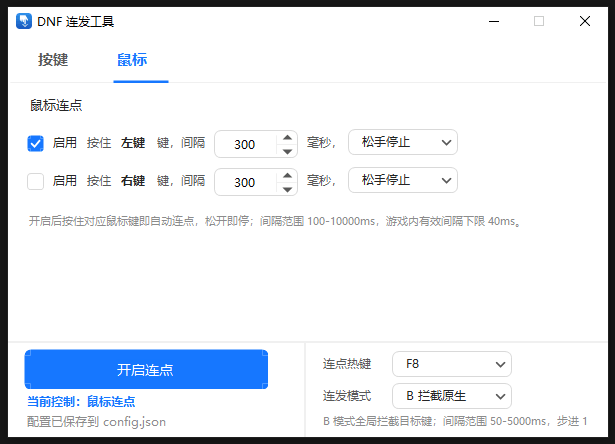
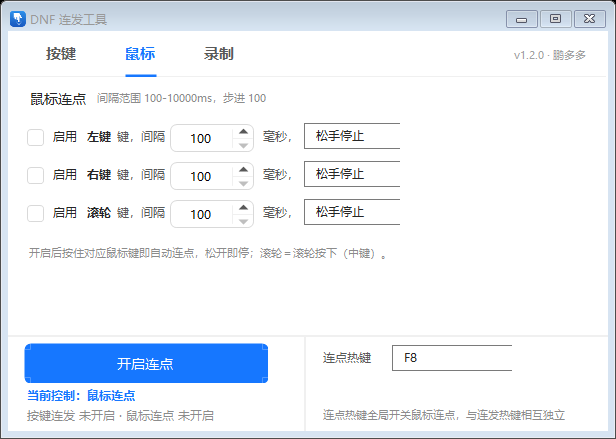
feat: 配置加版本字段 + 按键步进 50 + 鼠标页标题统一
- AppConfig 新增 ConfigVersion（写入时的程序版本）：缺失或低于当前版本时整份重置为
  默认并立即覆写；同时清掉已废弃的 PlayGapMs。字段故意不给初始值——STJ 反序列化
  缺失属性会保留初始值，给了就永远判不出「没有这个字段」
- 按键间隔步进 10 → 50（KeyStepMs 常量），标题旁文案跟着改为「步进 50」
- 抽出 AddPageTitle：按键页 / 鼠标页共用 10.5pt 标题 + 8pt 灰字范围说明；
  鼠标页补「间隔范围 100-10000ms，步进 100」，页底提示删掉间隔范围与「游戏内有效下限 40ms」
- README / CHANGELOG / PLAN §14 同步；重拍 screenShot_1/2

diff --git a/MainForm.cs b/MainForm.cs
@@ -9,6 +9,8 @@ public class MainForm : Form
     private const int HOTKEY_ID_PLAY = 4;   // 回放热键
     private const int MinMs = 50;
     private const int MaxMs = 5000;
+    private const int KeyStepMs = 50;        // 按键间隔的步进值（上下按钮/↑↓每次走 50ms）
+    private const int MouseStepMs = 100;     // 鼠标连点间隔步进
     private const int MouseMinMs = 100;      // 鼠标连点间隔下限
     private const int MouseMaxMs = 10000;    // 鼠标连点间隔上限（10 秒）
     private const int MouseDefaultMs = 300;  // 鼠标连点间隔默认值
@@ -1332,28 +1334,7 @@ public class MainForm : Form
 
     private void BuildKeysPage(Control page)
     {
-        var lblTitle = new Label
-        {
-            Text = "按键配置",
-            Location = new Point(16, 11),
-            AutoSize = true,
-            ForeColor = AntStyle.TextPri,
-            Font = new Font(AntStyle.FontName, 10.5f)
-        };
-        page.Controls.Add(lblTitle);
-
-        // 间隔范围说明跟着标题走（原来挤在右下角模式提示里）
-        var titleSize = RowTextSize("按键配置", 10.5f);
-        var rangeSize = RowTextSize($"间隔范围 {MinMs}-{MaxMs}ms，步进 1", 8f);
-        var lblRange = new Label
-        {
-            Text = $"间隔范围 {MinMs}-{MaxMs}ms，步进 1",
-            Location = new Point(16 + titleSize.Width + 12, 11 + (titleSize.Height - rangeSize.Height) / 2),
-            AutoSize = true,
-            ForeColor = AntStyle.TextTertiary,
-            Font = new Font(AntStyle.FontName, 8f)
-        };
-        page.Controls.Add(lblRange);
+        AddPageTitle(page, "按键配置", $"间隔范围 {MinMs}-{MaxMs}ms，步进 {KeyStepMs}");
 
         pnlRows = new Panel
         {
@@ -1391,15 +1372,7 @@ public class MainForm : Form
     /// <summary>鼠标连点页：固定左/右/滚轮三行 + 停止条件下拉（松手停止 / 自动点击，默认松手停止）。</summary>
     private void BuildMousePage(Control page)
     {
-        var lblTitle = new Label
-        {
-            Text = "鼠标连点",
-            Location = new Point(16, 12),
-            AutoSize = true,
-            ForeColor = AntStyle.TextPri,
-            Font = new Font(AntStyle.FontName, 9.5f)
-        };
-        page.Controls.Add(lblTitle);
+        AddPageTitle(page, "鼠标连点", $"间隔范围 {MouseMinMs}-{MouseMaxMs}ms，步进 {MouseStepMs}");
 
         foreach (var (button, label, y) in new[] { ("L", "左键", 44), ("R", "右键", 82), ("M", "滚轮", 120) })
         {
@@ -1423,7 +1396,7 @@ public class MainForm : Form
             {
                 Location = new Point(x, 3),
                 Size = new Size(84, 28),
-                Step = 100,
+                Step = MouseStepMs,
                 Min = MouseMinMs,
                 Max = MouseMaxMs
             };
@@ -1488,7 +1461,7 @@ public class MainForm : Form
 
         var lblHint = new Label
         {
-            Text = "开启后按住对应鼠标键即自动连点，松开即停；滚轮＝滚轮按下（中键）。间隔 100-10000ms，游戏内有效下限 40ms。",
+            Text = "开启后按住对应鼠标键即自动连点，松开即停；滚轮＝滚轮按下（中键）。",
             Location = new Point(16, 168),
             AutoSize = true,
             MaximumSize = new Size(RowWidth + 12, 0), // 超宽自动换行，不越过窗口右边缘
@@ -2298,7 +2271,7 @@ public class MainForm : Form
         {
             Location = new Point(184, 3),
             Size = new Size(84, 28),
-            Step = 10,
+            Step = KeyStepMs,
             Min = MinMs,
             Max = MaxMs
         };
@@ -2589,6 +2562,29 @@ public class MainForm : Form
             UpdateStatus("间隔已修正为 " + fixedMs + " 毫秒");
         }
         if (!_loading) SaveConfig(); // 手动输入的毫秒值离开输入框时落盘
+    }
+
+    /// <summary>页面标题 + 右侧间隔范围说明（按键页与鼠标页共用同一套字号与对齐）。</summary>
+    private static void AddPageTitle(Control page, string title, string range)
+    {
+        var titleSize = RowTextSize(title, 10.5f);
+        var rangeSize = RowTextSize(range, 8f);
+        page.Controls.Add(new Label
+        {
+            Text = title,
+            Location = new Point(16, 11),
+            AutoSize = true,
+            ForeColor = AntStyle.TextPri,
+            Font = new Font(AntStyle.FontName, 10.5f)
+        });
+        page.Controls.Add(new Label
+        {
+            Text = range,
+            Location = new Point(16 + titleSize.Width + 12, 11 + (titleSize.Height - rangeSize.Height) / 2),
+            AutoSize = true,
+            ForeColor = AntStyle.TextTertiary,
+            Font = new Font(AntStyle.FontName, 8f)
+        });
     }
 
     /// <summary>行内静态文字：保持 AutoSize（不裁切），用 MeasureText 把文字垂直中心对齐到 28px 控件带中线。</summary>

diff --git a/AppConfig.cs b/AppConfig.cs
@@ -25,6 +25,12 @@ public class MouseClickConfig
 
 public class AppConfig
 {
+    /// <summary>
+    /// 配置结构版本＝写入时的程序版本。缺字段或低于当前版本 → 整份重置为默认（见 ConfigManager.Load）。
+    /// 不设初始值：STJ 反序列化时缺失的属性保留字段默认值，若给默认值就永远判不出"没有这个字段"。
+    /// </summary>
+    public string? ConfigVersion { get; set; }
+
     public List<KeyConfig> Keys { get; set; } = new();
     public List<MouseClickConfig> MouseClicks { get; set; } = new();
     public string StartHotkey { get; set; } = "F6";      // 按键连发热键
@@ -56,6 +62,10 @@ public static class ConfigManager
 {
     private static string ConfigPath => Path.Combine(AppPaths.DataDir, "config.json");
 
+    /// <summary>程序版本（形如 1.2.0），取自程序集版本，与 Tab 栏显示的版本号同源。</summary>
+    public static string AppVersion =>
+        typeof(AppConfig).Assembly.GetName().Version?.ToString(3) ?? "0.0.0";
+
     private static readonly JsonSerializerOptions JsonOptions = new()
     {
         WriteIndented = true,
@@ -66,11 +76,21 @@ public static class ConfigManager
     {
         try
         {
-            if (File.Exists(ConfigPath))
+            if (!File.Exists(ConfigPath)) return AppConfig.Default();
+
+            var cfg = JsonSerializer.Deserialize<AppConfig>(File.ReadAllText(ConfigPath), JsonOptions);
+            if (cfg == null) return AppConfig.Default();
+
+            // 老配置没有版本字段，或版本低于当前程序 → 整份重置并立刻覆写：
+            // 结构变了以后逐字段兼容太容易漏，干脆从头来（配置项就这些，重填成本低）
+            if (!VersionMatches(cfg.ConfigVersion))
             {
-                var cfg = JsonSerializer.Deserialize<AppConfig>(File.ReadAllText(ConfigPath), JsonOptions);
-                if (cfg != null) return cfg;
+                Logger.Info($"配置版本 {Describe(cfg.ConfigVersion)} 与当前 {AppVersion} 不符，已整体重置为默认配置");
+                var def = AppConfig.Default();
+                Save(def);
+                return def;
             }
+            return cfg;
         }
         catch (Exception ex)
         {
@@ -82,6 +102,14 @@ public static class ConfigManager
 
     public static void Save(AppConfig cfg)
     {
+        cfg.ConfigVersion = AppVersion; // 每次写盘都盖上当前版本，下次启动即按此判断
         File.WriteAllText(ConfigPath, JsonSerializer.Serialize(cfg, JsonOptions));
     }
+
+    /// <summary>版本字段必须存在，且不低于当前程序版本（缺字段 / 低于 = 需要重置）。</summary>
+    private static bool VersionMatches(string? version) =>
+        Version.TryParse(version, out var v) && v >= (Version.TryParse(AppVersion, out var app) ? app : new Version(0, 0, 0));
+
+    private static string Describe(string? version) =>
+        string.IsNullOrWhiteSpace(version) ? "(无配置版本字段)" : version;
 }

diff --git a/README.md b/README.md
@@ -10,7 +10,7 @@
 
 - **多键连发配置**：最多 5 行按键配置（默认 X、A 两行），每行可独立设置
   - 键名（支持 `A-Z`、`0-9`，以及小键盘数字 `N0`–`N9`：在输入框里直接按小键盘即可）
-  - 触发间隔（毫秒，步进 1，范围 50–5000）
+  - 触发间隔（毫秒，步进 50，范围 50–5000）
   - 停止条件：**松手停止**（默认，按住才连发）/ **自动连按**（开启后无需按住，`0` 表示无限次，可设 1–100000 次）
   - 启用开关（Checkbox）：勾选了就必须填键名，空键名或两行同键会拒绝开启并提示
 - **鼠标连点**（v1.1.0 新增，v1.2.0 补充滚轮与自动点击）：左键 / 右键 / 滚轮（滚轮按下，即中键）三行，各自独立配置
@@ -91,6 +91,7 @@
 
 ```json
 {
+  "ConfigVersion": "1.2.0",
   "Keys": [
     { "Key": "X", "IntervalMs": 50, "StopMode": "hold", "StopValue": 0, "Enabled": true },
     { "Key": "A", "IntervalMs": 100, "StopMode": "auto", "StopValue": 200, "Enabled": false }
@@ -106,7 +107,7 @@
   "PlaybackHotkey": "F10",
   "PlayMode": "infinite",
   "PlayValue": 1,
-  "PlayGapMs": 1000,
+  "PlayGapSec": 1,
   "Mode": "B"
 }
 ```
@@ -116,6 +117,7 @@
 - `MouseClicks.StopMode`：`infinite`=松手停止（默认）/ `auto`=自动点击；`StopValue` 为自动点击的次数（`0` = 一直点，旧版 `count` 读入后按自动点击处理）
 - `PlayMode`：`count`=回放 N 次 / `infinite`=一直放 / `duration`=定时 N 分钟；`PlayValue` 为对应的次数或分钟数
 - `PlayGapSec`：两轮回放之间的等待秒数（`0` = 不等待，默认 `1`，上限 999999）
+- `ConfigVersion`：配置结构版本，等于写盘时的程序版本。**缺这个字段、或版本低于当前程序，整份配置直接重置为默认并立即覆写**（配置项不多，重填成本低于逐字段兼容）
 - 配置文件默认与 EXE 同目录；若 EXE 所在目录无写入权限，则使用 `%APPDATA%\DnfAutoFire\config.json`
 - 文件损坏时自动回退默认配置，并记录到 `error.log`
 

diff --git a/docs/PLAN-v1.2.0.md b/docs/PLAN-v1.2.0.md
@@ -680,6 +680,9 @@ MacroPlayer.Start(profile, repeatMode, value)
 | 连发模式改名「保留原生 / 拦截原生」 | 下拉选项去掉 A/B 前缀，顺序按「保留原生、拦截原生」，默认仍是拦截原生（索引 1）；配置里的 `Mode` 仍写 `A`/`B`，映射改为 `index==0 → A` |
 | 说明文字跟随选项 | `lblModeTip` 改为 `ApplyKeyModeTip()` 动态生成：保留原生＝放行物理按键、拦截原生＝拦下物理按键 |
 | 间隔范围挪到标题行 + 标题加大 | 「按键配置」字号 9.5 → 10.5，后面接 8pt 灰字「间隔范围 50-5000ms，步进 1」，位置用 `RowTextSize` 实测宽度顺排，避免不同 DPI 下压字 |
+| 按键间隔步进 1 → 50 | `KeyStepMs = 50`；范围文案由常量拼出（`间隔范围 50-5000ms，步进 50`）。手输仍允许 1ms 粒度，只有上下按钮/↑↓ 按 50 走 |
+| 鼠标页标题与按键页统一 | 抽 `AddPageTitle(page, 标题, 范围文案)`，两页共用 10.5pt 标题 + 8pt 灰字；鼠标页范围用 `MouseMinMs/MouseMaxMs/MouseStepMs` 拼出「100-10000ms，步进 100」；页底提示删掉间隔范围与「游戏内有效下限 40ms」 |
+| 配置版本字段 `ConfigVersion` | 值＝写盘时的程序版本（`Assembly.GetName().Version.ToString(3)`）。`Load` 里**缺字段或低于当前版本 → `AppConfig.Default()` + 立即 `Save` 覆写**；旧 `PlayGapMs` 一并清除。踩坑：字段不能给初始值，否则 STJ 反序列化缺失属性时保留默认值，永远判不出"没有这个字段" |
 
 ---
 

diff --git a/CHANGELOG.md b/CHANGELOG.md
@@ -36,6 +36,9 @@
 - 连发模式选项改名为「保留原生 / 拦截原生」，说明文字随选中项切换；间隔范围说明挪到「按键配置」标题行，标题字号 +1
 - 方案列表与录制状态条不再显示采样点数（「12.4s · 517 点」→「12.4s」），录制页提示去掉「可拖动」「回放时把游戏切到前台」「60000 点」等字样
 - 方案名输入框文字左右各留 8px，不再贴着边框
+- 配置新增 `ConfigVersion`（写入时的程序版本）：**缺该字段或版本低于当前程序时整份配置重置为默认并立即覆写**，避免结构变更后逐字段兼容漏项；旧的 `PlayGapMs` 字段随之清除
+- 按键间隔步进 10 → 50（范围 50–5000 不变，文案同步为「步进 50」）
+- 鼠标页标题与按键页统一：`鼠标连点` 字号加大，右侧接「间隔范围 100-10000ms，步进 100」；页底提示去掉间隔范围与「游戏内有效下限 40ms」
 - 鼠标页底部提示超宽时自动换行，不再越过窗口右边缘
 - 版本号 1.1.0 → 1.2.0（Tab 栏右侧随程序自动更新）
 
